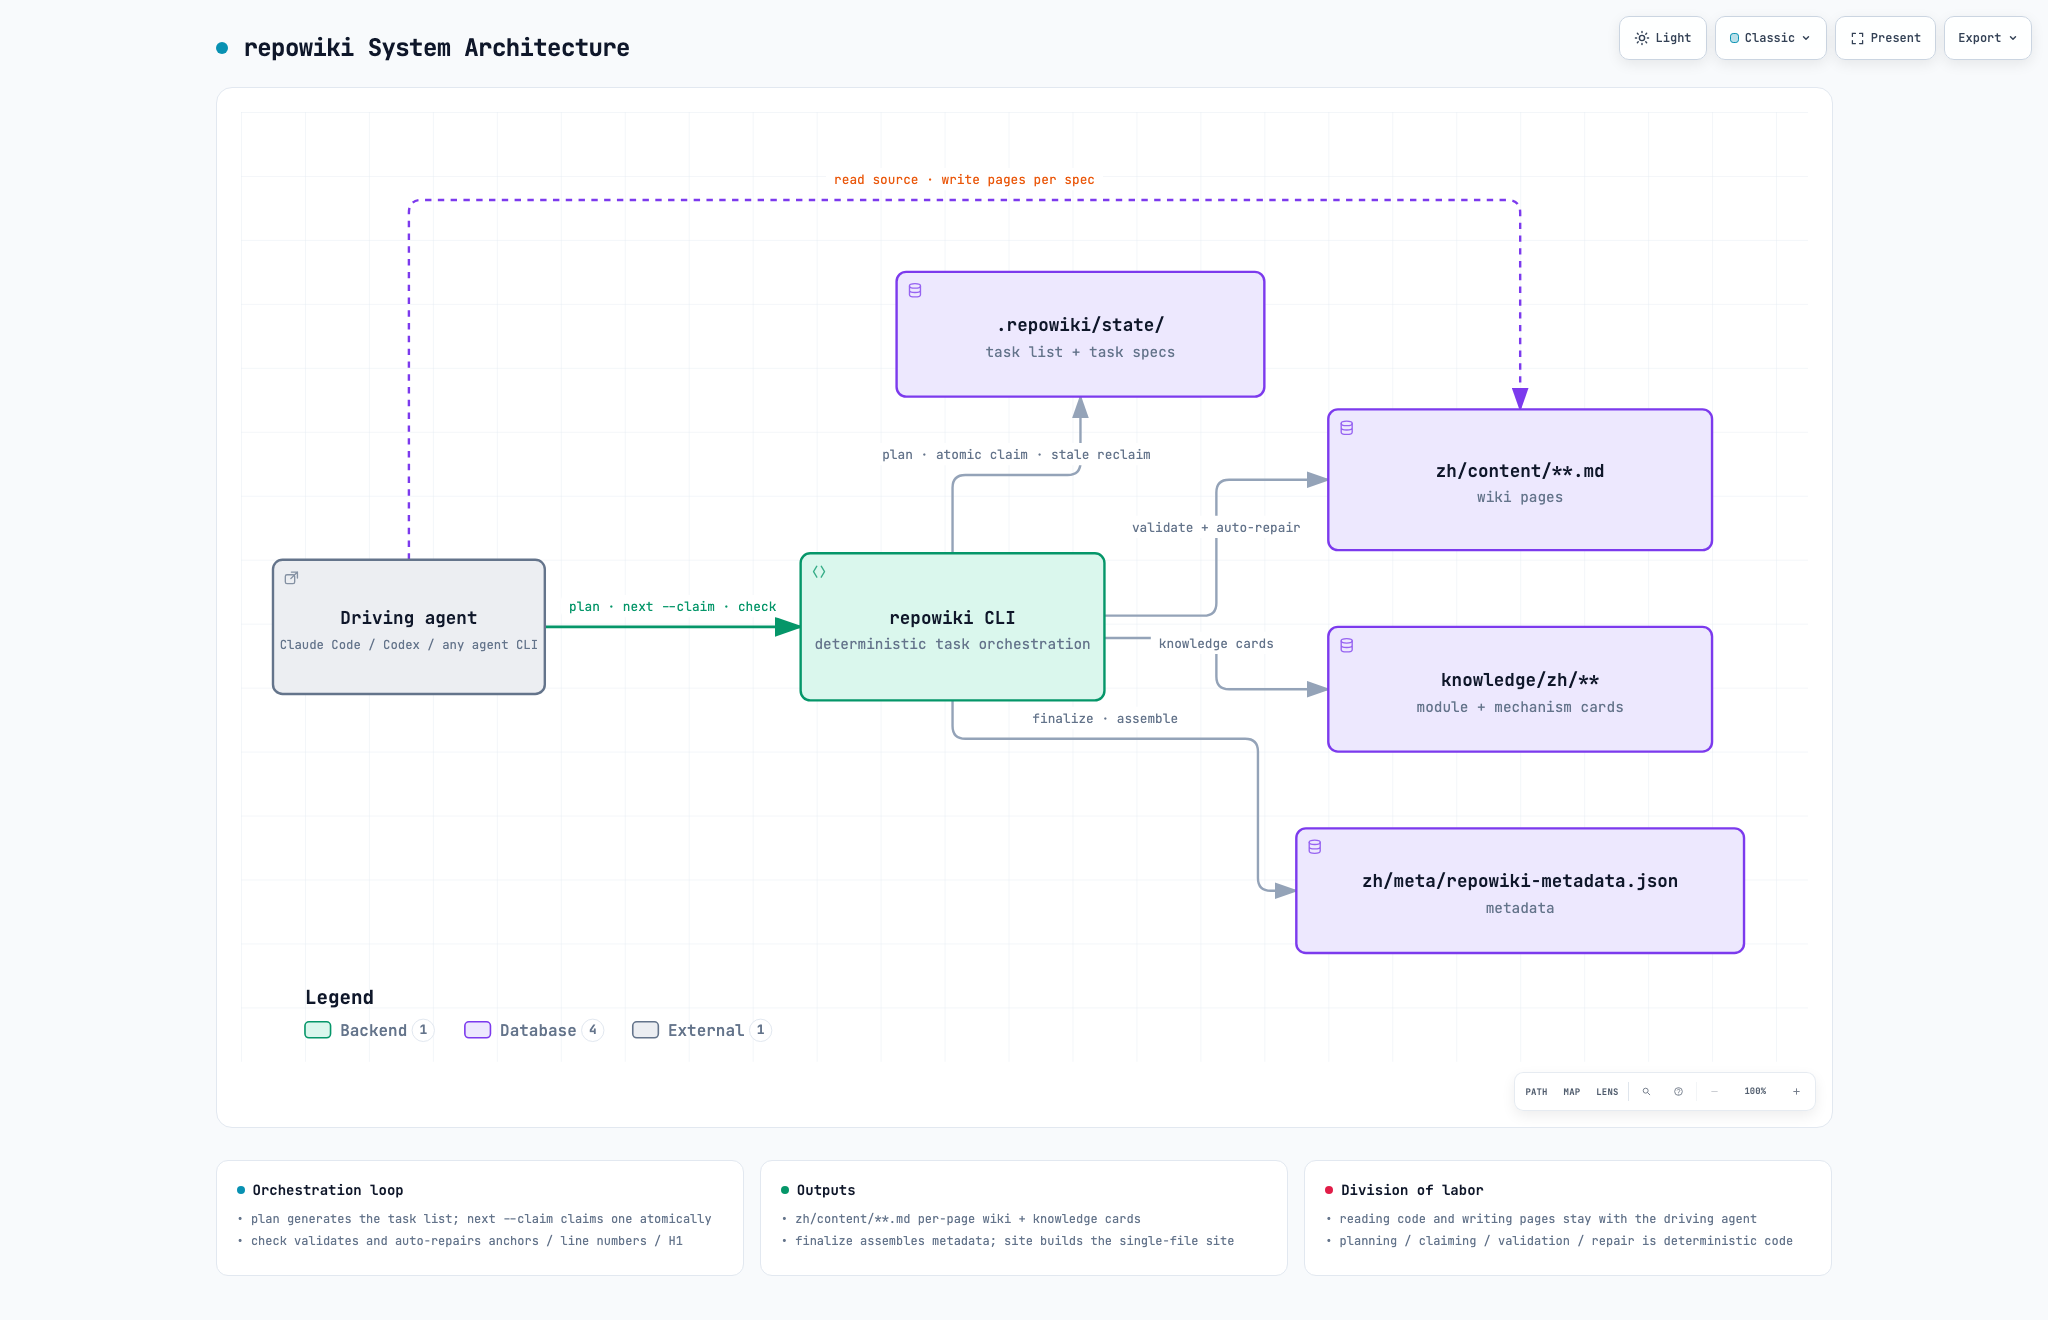
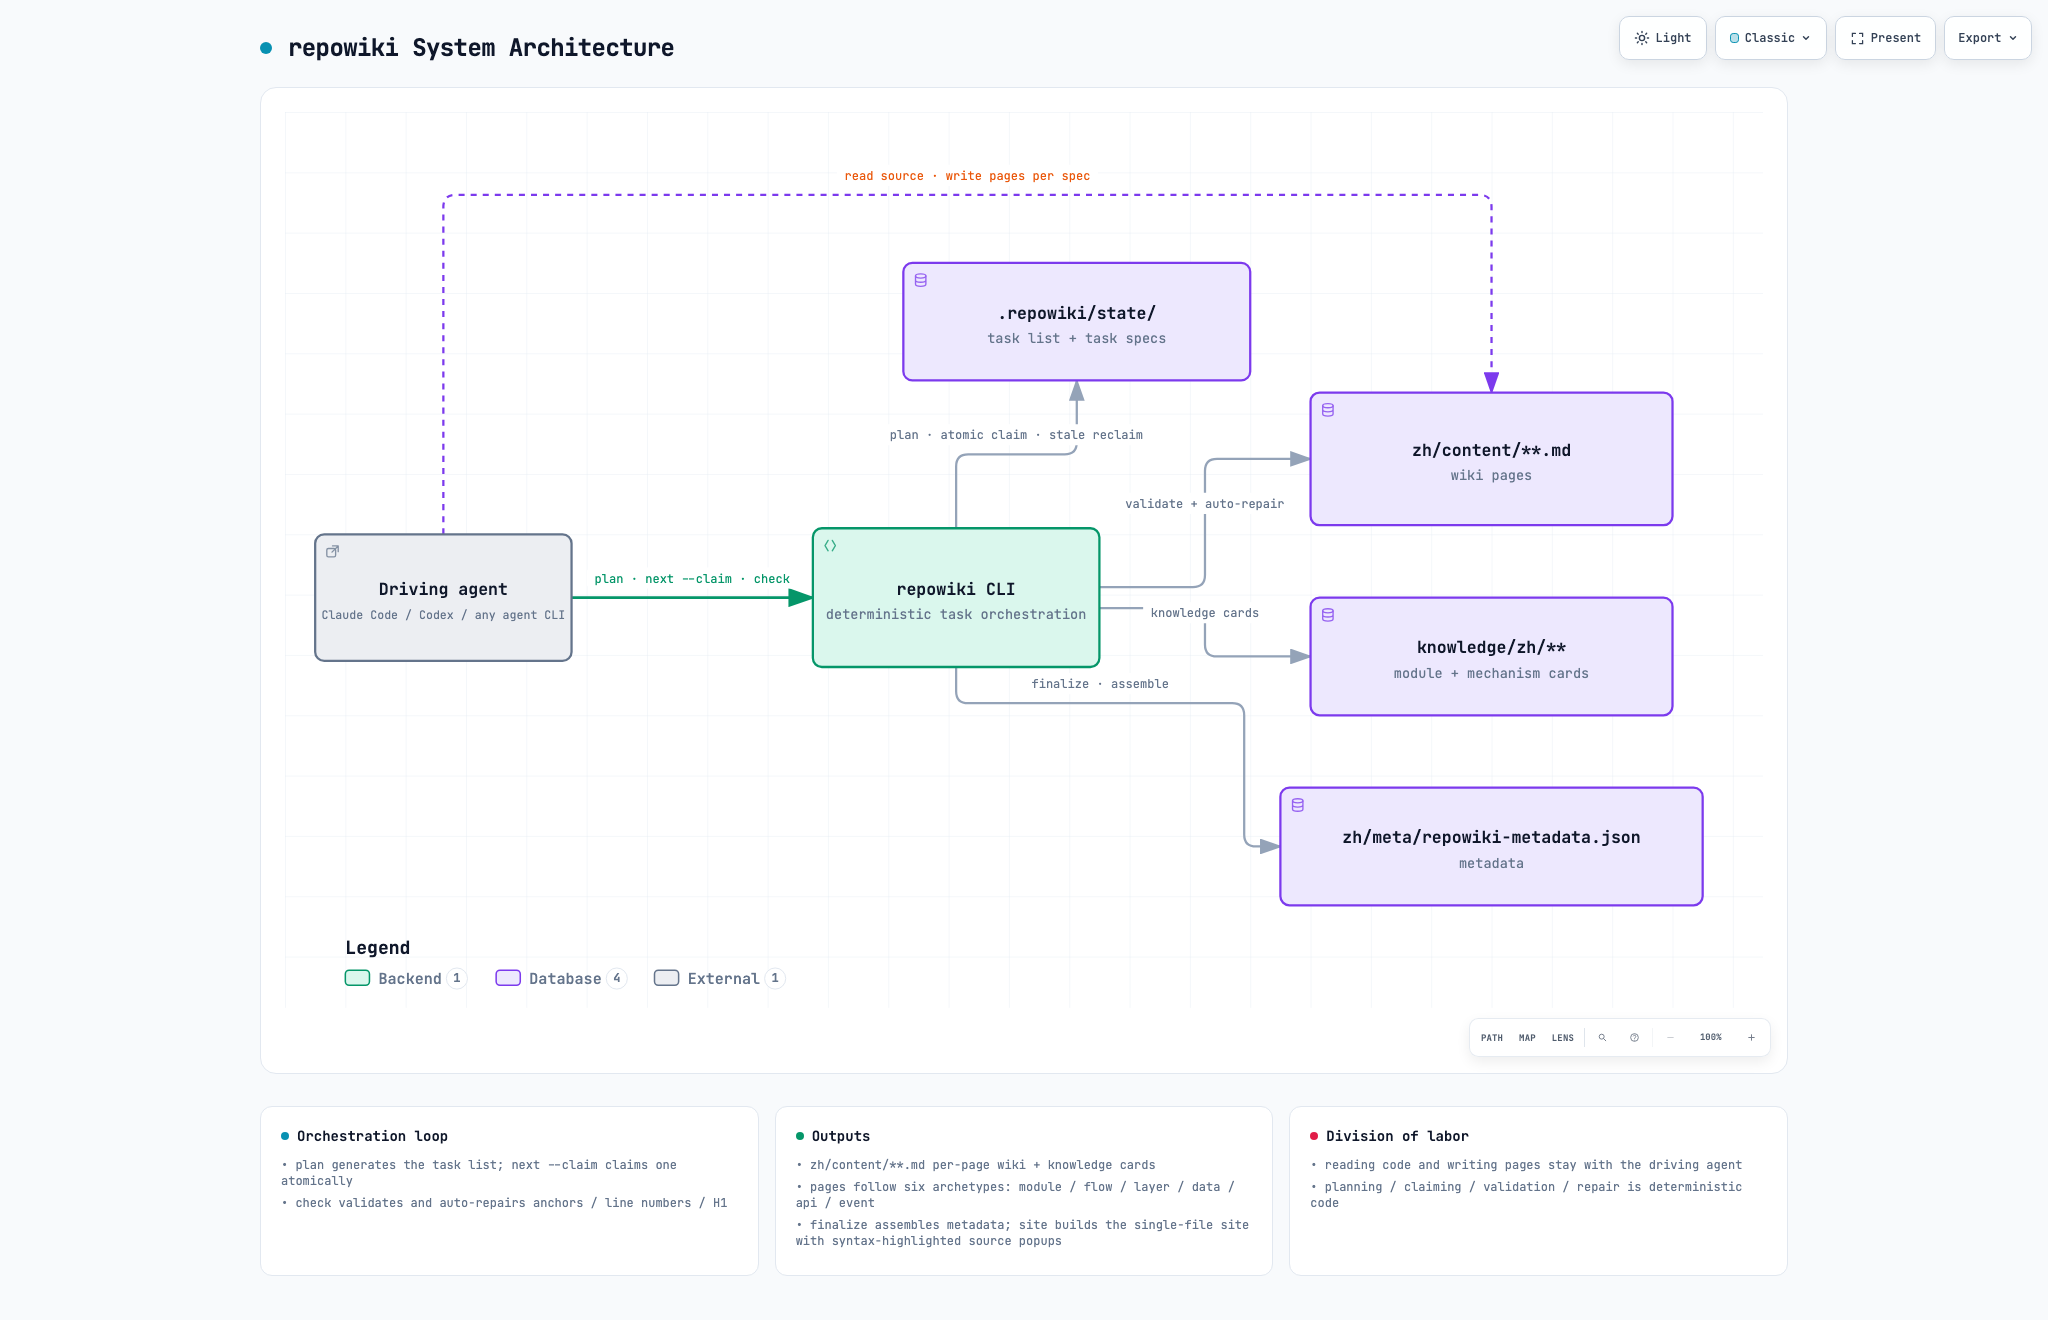
docs(assets): English asset set — archify architecture diagram, English site demo GIF and screenshots

diff --git a/docs/repowiki-architecture-en.html b/docs/repowiki-architecture-en.html
@@ -5054,8 +5054,8 @@
         <text data-detail="fine" x="105" y="356" class="t-external" font-size="7" text-anchor="middle">serial / concurrent</text>
         </g>
 
-        <g id="node-cli" data-node-id="cli" data-node-label="repowiki CLI" tabindex="0" role="button" aria-label="Focus repowiki CLI, deterministic task orchestration, Architecture component" aria-pressed="false" data-node-kind="backend" data-node-sublabel="deterministic task orchestration" data-node-tag="plan · next · check" data-node-context="Architecture component">
-          <title>repowiki CLI · deterministic task orchestration · Architecture component · plan · next · check</title>
+        <g id="node-cli" data-node-id="cli" data-node-label="repowiki CLI" tabindex="0" role="button" aria-label="Focus repowiki CLI, deterministic task orchestration, Architecture component" aria-pressed="false" data-node-kind="backend" data-node-sublabel="deterministic task orchestration" data-node-tag="15 subcommands · -o/--output" data-node-context="Architecture component">
+          <title>repowiki CLI · deterministic task orchestration · Architecture component · 15 subcommands · -o/--output</title>
           <rect x="350" y="276" width="190" height="92" rx="6" class="c-mask"/>
           <rect x="350" y="276" width="190" height="92" rx="6" class="c-backend" stroke-width="1.5"/>
           <g aria-hidden="true" data-semantic-sigil="backend" class="semantic-sigil s-backend" transform="translate(356 282) scale(0.6875)">
@@ -5063,7 +5063,7 @@
           </g>
           <text data-node-label="" data-detail-anchor="" x="445" y="320" class="t-primary" font-size="11" font-weight="600" text-anchor="middle">repowiki CLI</text>
         <text data-detail="context" x="445" y="336" class="t-muted" font-size="9" text-anchor="middle">deterministic task orchestration</text>
-        <text data-detail="fine" x="445" y="360" class="t-backend" font-size="7" text-anchor="middle">plan · next · check</text>
+        <text data-detail="fine" x="445" y="360" class="t-backend" font-size="7" text-anchor="middle">15 subcommands · -o/--output</text>
         </g>
 
         <g id="node-state" data-node-id="state" data-node-label=".repowiki/state/" tabindex="0" role="button" aria-label="Focus .repowiki/state/, task list + task specs, Architecture component" aria-pressed="false" data-node-kind="database" data-node-sublabel="task list + task specs" data-node-tag="catalog → pages → overview" data-node-context="Architecture component">
@@ -5365,7 +5365,8 @@
         </div>
         <ul>
           <li>&bull; zh/content/**.md per-page wiki + knowledge cards</li>
-          <li>&bull; finalize assembles metadata; site builds the single-file site</li>
+          <li>&bull; pages follow six archetypes: module / flow / layer / data / api / event</li>
+          <li>&bull; finalize assembles metadata; site builds the single-file site with syntax-highlighted source popups</li>
         </ul>
       </div>
 
